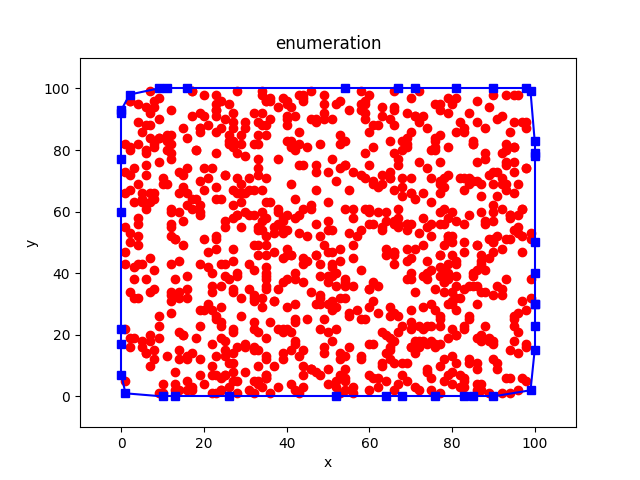
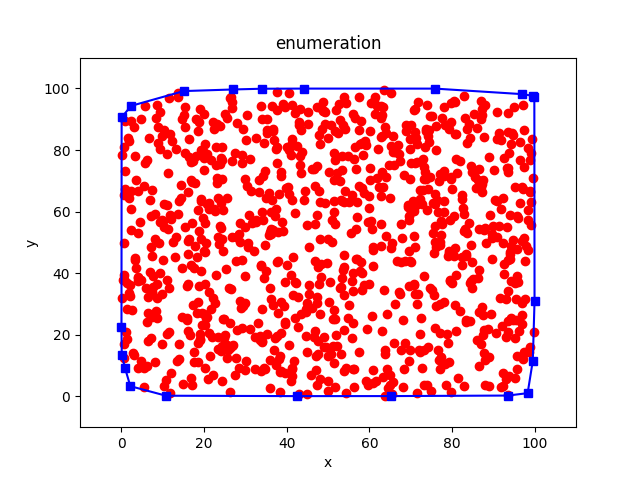
fix lab1

Changed region(s): [[0.1562, 0.1562, 0.8438, 0.8438]]

diff --git a/lab1/tool.py b/lab1/tool.py
@@ -9,7 +9,8 @@ class point:
 def pointSet(N):
     Q = set()
     while len(Q) < N:
-        a = point(random.randint(0, 100), random.randint(0, 100), 0)
+        #a = point(random.randint(0, 100), random.randint(0, 100), 0)
+        a = point(random.uniform(0, 100), random.uniform(0, 100), 0)
         Q.add(a)
     return Q
 
@@ -80,25 +81,17 @@ def drawPoint(Q, P, flag):
     plt.show()
 
 def drawPerformancePicture(X, Y1, Y2, Y3):
-    plt.subplot(121)
-    plt.title("enumeration")
+    plt.subplot()
+    plt.title("performance")
     plt.xlim(xmax=max(X)*1.1, xmin=0)
     plt.ylim(ymax=max(Y1)*1.1, ymin=0)
     plt.xlabel("number")
     plt.ylabel("time")
     plt.plot(X, Y1, label="Enumeration", color="red", marker=".")
-    for i in range(len(X)):
-        plt.text(X[i], Y1[i], '%.4f' % Y1[i], ha='center', va= 'bottom')
-    
-    plt.subplot(122)
-    plt.title("Graham-Scan&DivideConquer")
-    plt.xlim(xmax=max(X)*1.1, xmin=0)
-    plt.ylim(ymax=max(max(Y2),max(Y3))*1.1, ymin=0)
-    plt.xlabel("number")
-    plt.ylabel("time")
     plt.plot(X, Y2, label="Graham-Scan", color="blue", marker="o")
     plt.plot(X, Y3, label="DivideConquer", color="black", marker="<")
     for i in range(len(X)):
+        plt.text(X[i], Y1[i], '%.4f' % Y1[i], ha='center', va= 'bottom')
         plt.text(X[i], Y2[i], '%.4f' % Y2[i],ha='center', va= 'bottom')
         plt.text(X[i], Y3[i], '%.4f' % Y3[i],ha='center', va= 'bottom') 
     plt.legend()

diff --git a/lab1/main.py b/lab1/main.py
@@ -14,19 +14,19 @@ if __name__ == '__main__':
         # enumeration 
         boundaryPointSet1 = enumeration(Q);
         endTime1 = time.time() 
-        drawPoint(Q, boundaryPointSet1, 1)
-        print(endTime1 - startTime)    
+        # drawPoint(Q, boundaryPointSet1, 1)
+        # print(endTime1 - startTime)    
         # grahamScan 
         boundaryPointSet2 = grahamScan(Q);
         endTime2 = time.time()
-        print(endTime2 - endTime1)
-        drawPoint(Q, boundaryPointSet2, 2)
+        # print(endTime2 - endTime1)
+        # drawPoint(Q, boundaryPointSet2, 2)
         
         # divideConquer
         boundaryPointSet3 = divideConquer(Q)
         endTime3 = time.time()
-        print(endTime3 - endTime2)
-        drawPoint(Q, boundaryPointSet3, 3)
+        # print(endTime3 - endTime2)
+        # drawPoint(Q, boundaryPointSet3, 3)
         
         Y1.append(endTime1 - startTime) 
         Y2.append(endTime2 - endTime1)
